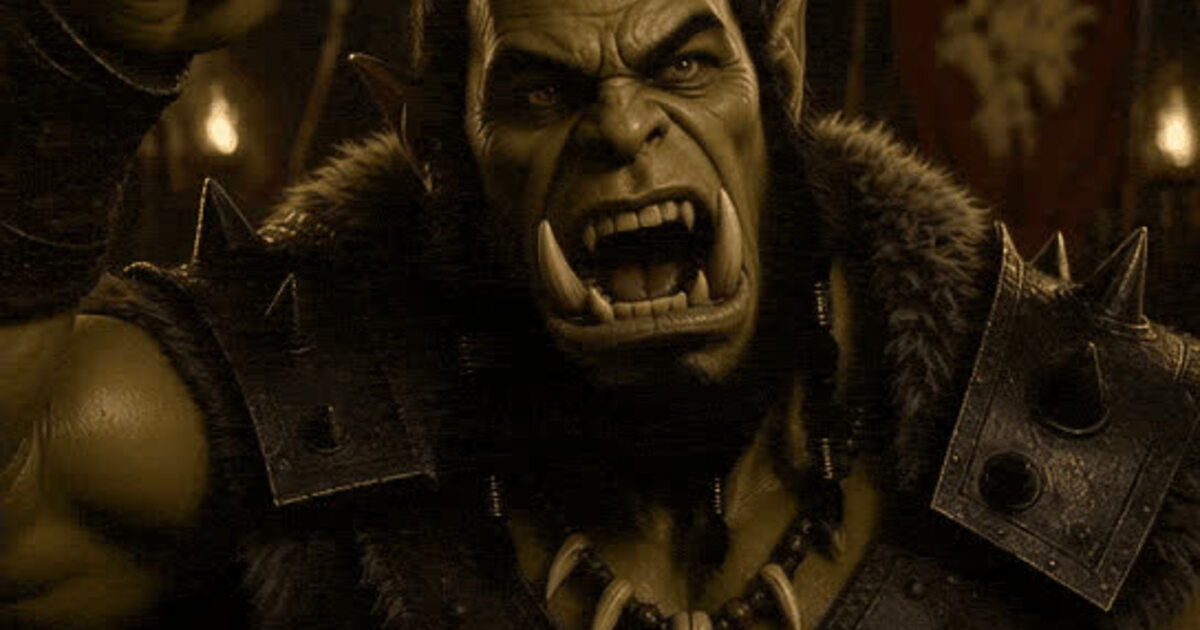
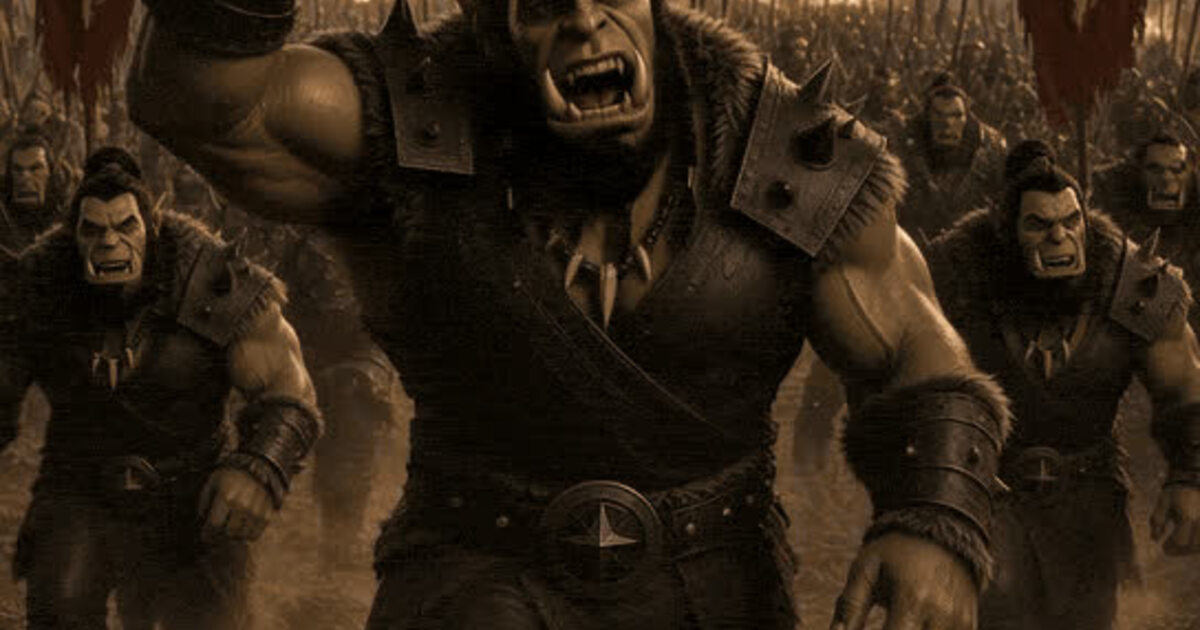
Reshoot For the Horde as a warrior leading the charge.

diff --git a/scripts/imagine-video.ts b/scripts/imagine-video.ts
@@ -49,7 +49,7 @@ const PROMPTS: Record<string, string> = {
     "Flames flicker around the orc and in his palm, a confident fire grin holding, firelight moving on his face. Locked camera.",
   flex: "The orc flexes both biceps harder, a cocky grin holding, a small proud pump of the arms. Locked camera.",
   "for-the-horde":
-    "The orc bellows a rallying war cry, fist pumping once, mouth open in a proud shout. Locked camera.",
+    "The orc charges forward with the army, ranks running behind him, then bellows a rallying war cry, fist raised. Keep the wide shot and the army in frame. Locked camera, no zoom to a close-up.",
   gold: "The orc sits on the treasure and grins richer as coins shift and glint. A small satisfied chuckle in the shoulders. Locked camera.",
   happy:
     "The orc laughs happily, a warm chuckle shaking his shoulders, eyes crinkling, grin holding. Locked camera.",
